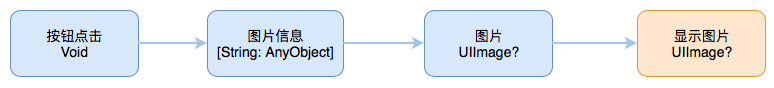
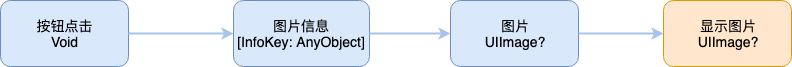
update image picker demo

diff --git a/content/more_demo/image_picker.md b/content/more_demo/image_picker.md
@@ -4,8 +4,6 @@
 
 这是一个图片选择器的演示，你可以在这里下载[这个例子](https://github.com/ReactiveX/RxSwift/tree/master/RxExample/RxExample/Examples/ImagePicker)。
 
----
-
 ### 简介
 
 这个 App 主要有这样几个交互：
@@ -13,8 +11,6 @@
 * 当用点击相机按钮时，让用户拍一张照片，然后显示出来。
 * 当用点击相册按钮时，让用户从相册中选出照片，然后显示出来。
 * 当用点击裁剪按钮时，让用户从相册中选出照片编辑，然后显示出来。
-
----
 
 ### 整体结构
 
@@ -37,7 +33,7 @@ override func viewDidLoad() {
             .take(1)
         }
         .map { info in
-            return info[UIImagePickerControllerOriginalImage] as? UIImage
+            return info[.originalImage] as? UIImage
         }
         .bind(to: imageView.rx.image)
         .disposed(by: disposeBag)
@@ -50,8 +46,8 @@ override func viewDidLoad() {
 
 ```swift
 cameraButton.rx.tap
-    .flatMapLatest { () -> Observable<[String: AnyObject]> ... } // 点击 -> 图片信息
-    .map { [String : AnyObject] -> UIImage? ... } // 图片信息 -> 图片
+    .flatMapLatest { () -> Observable<[InfoKey: AnyObject]> ... } // 点击 -> 图片信息
+    .map { [InfoKey : AnyObject] -> UIImage? ... } // 图片信息 -> 图片
     .bind(to: imageView.rx.image) // 数据绑定
     .disposed(by: disposeBag)
 ```
@@ -98,7 +94,7 @@ override func viewDidLoad() {
             .take(1)
         }
         .map { info in
-            return info[UIImagePickerControllerOriginalImage] as? UIImage
+            return info[.originalImage] as? UIImage
         }
         .bind(to: imageView.rx.image)
         .disposed(by: disposeBag)
@@ -114,7 +110,7 @@ override func viewDidLoad() {
             .take(1)
         }
         .map { info in
-            return info[UIImagePickerControllerEditedImage] as? UIImage
+            return info[.editedImage] as? UIImage
         }
         .bind(to: imageView.rx.image)
         .disposed(by: disposeBag)
